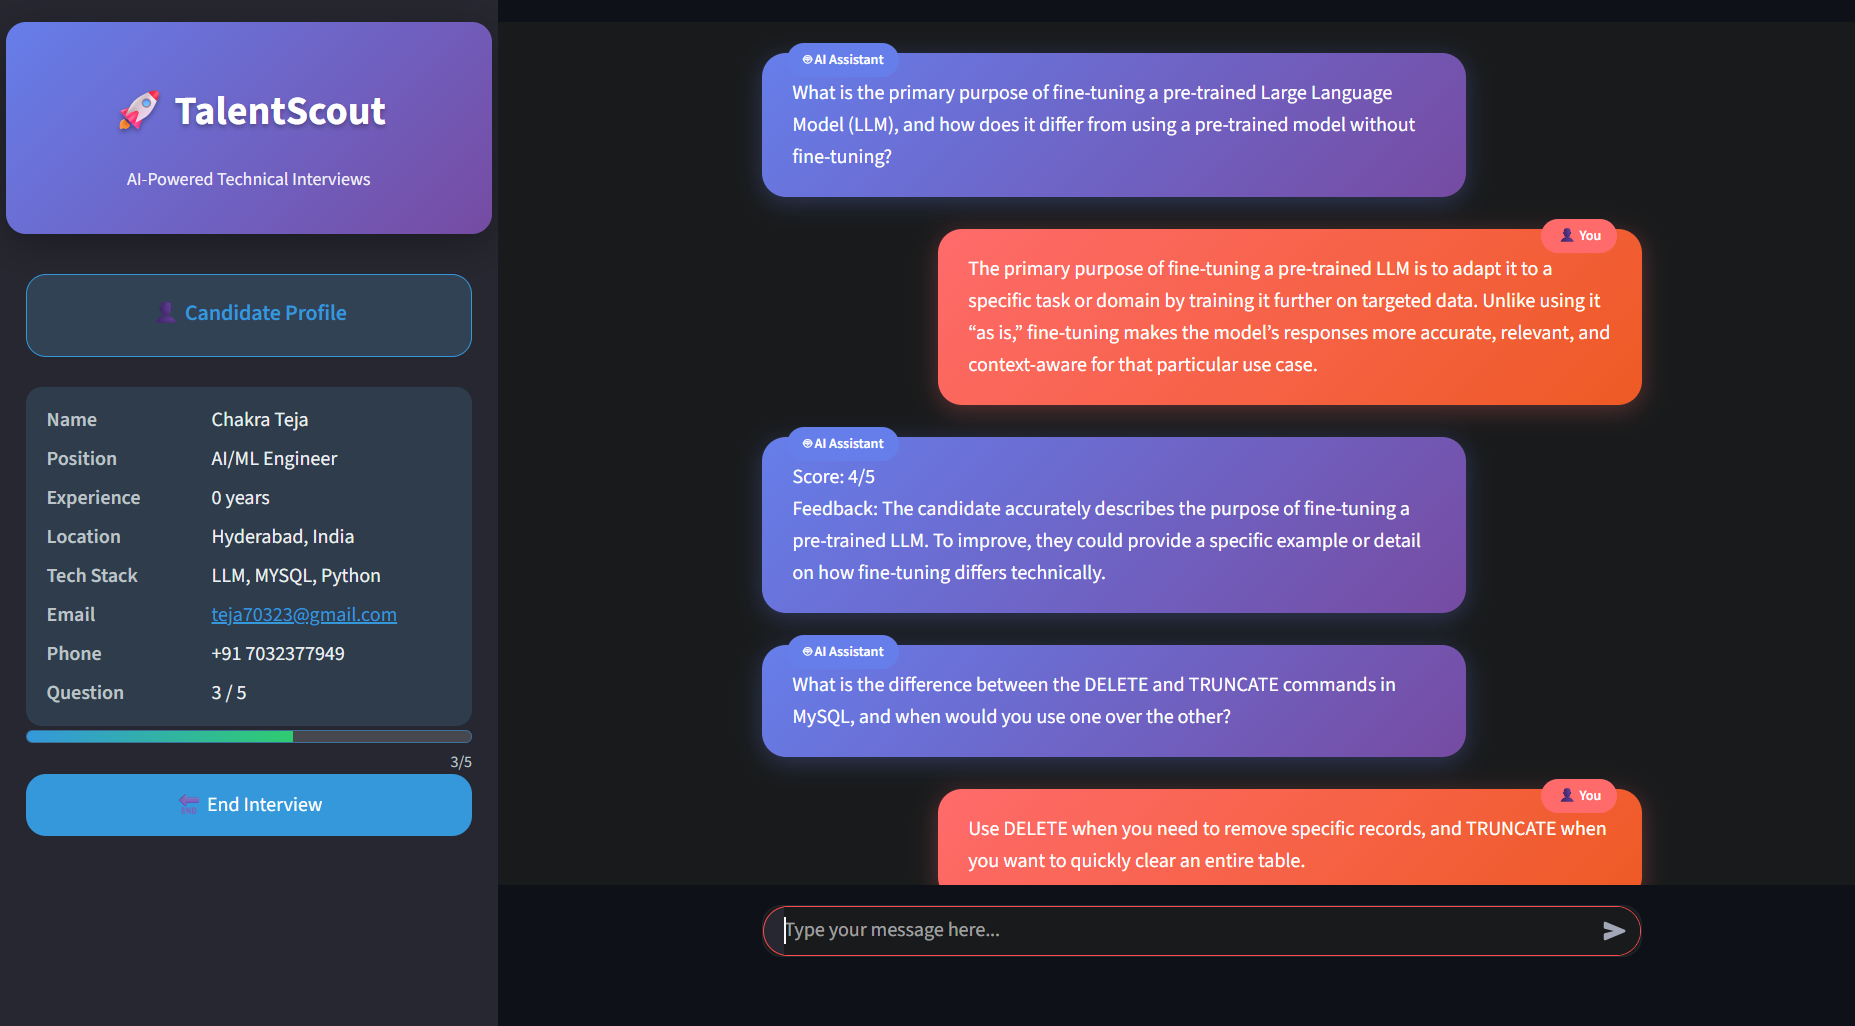
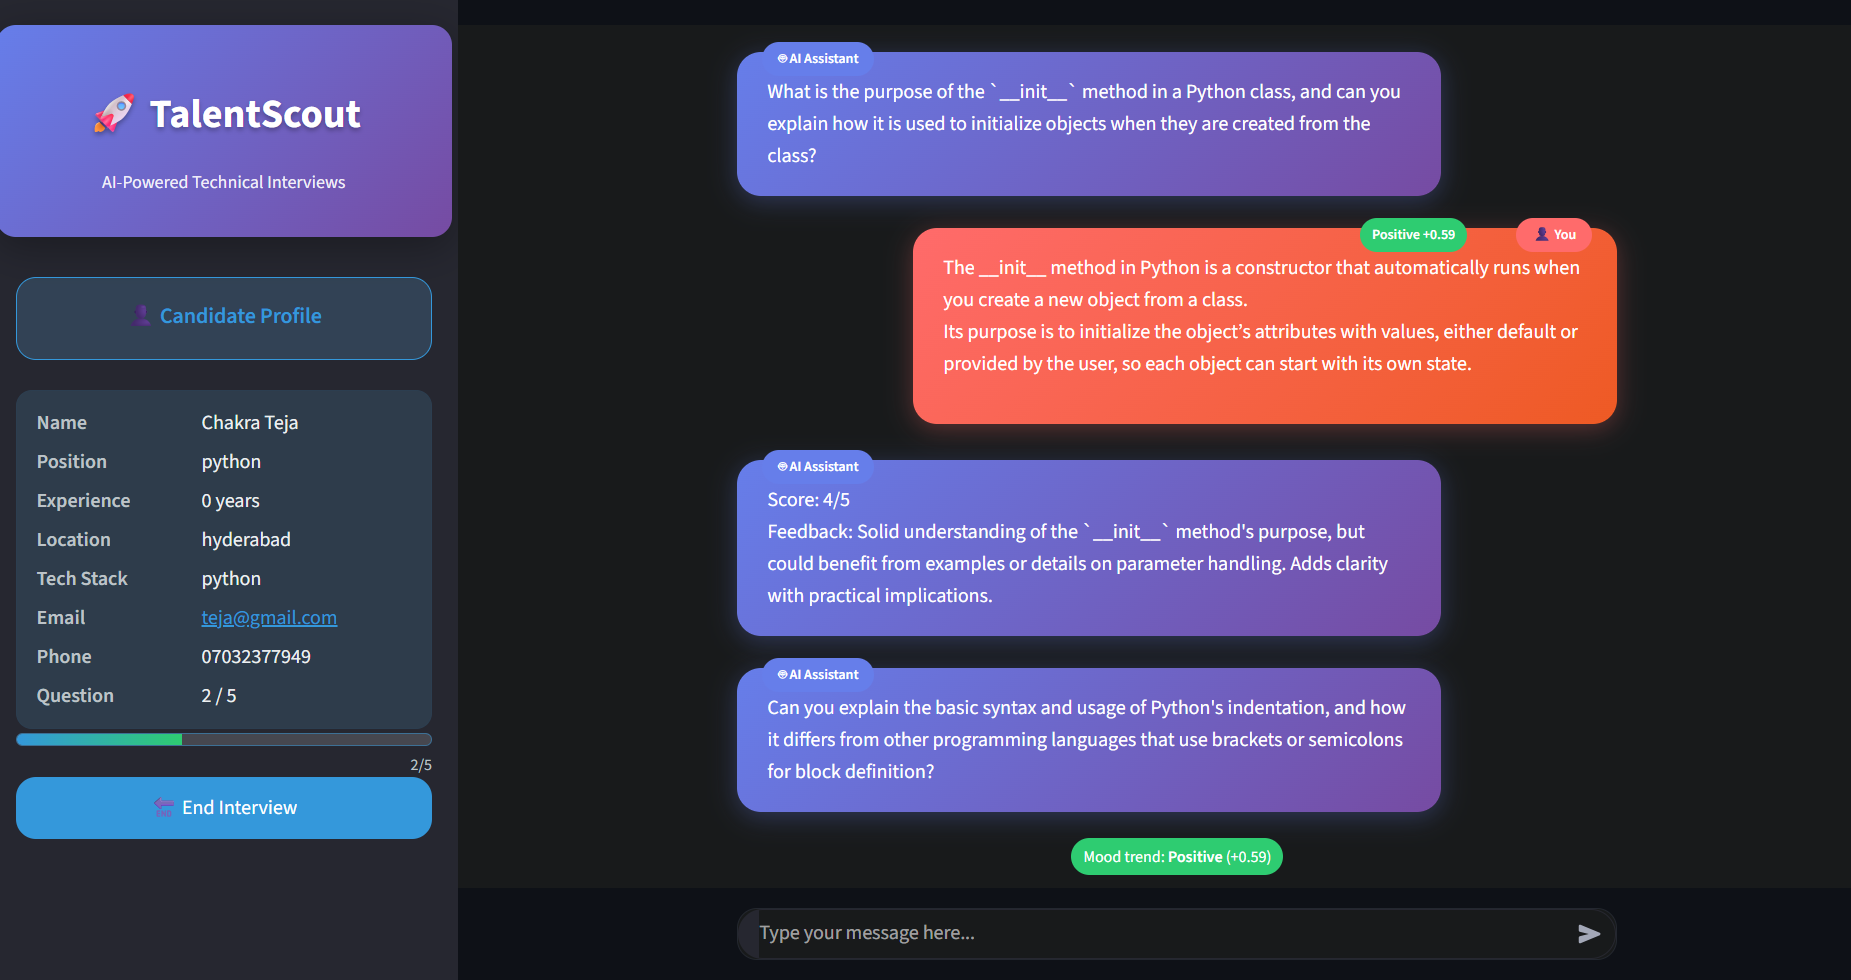
updated chatbot UI with sentiment analysis

diff --git a/app/utils/prompts.py b/app/utils/prompts.py
@@ -1,77 +1,174 @@
-# Prompt for generating multiple technical questions
 TECH_QUESTION_PROMPT = (
-    "You are an expert technical interviewer. Generate {num_questions} clear technical interview questions "
-    "based on the candidate's tech stack: {tech_stack} and {experience} years of experience.\n"
-    "Difficulty must strictly follow this mapping based on experience:\n"
-    "- 0 years → basic (fresher)\n"
-    "- 1-3 years → moderate (junior)\n"
-    "- 4-10 years → upper-moderate (experienced)\n"
-    "- 11+ years → hard (super experienced)\n\n"
-    "OUTPUT RULES (MANDATORY):\n"
-    "- Output ONLY the questions, each on its own line.\n"
-    "- Do NOT include any preface, labels, or explanations (no 'Question:', no summaries).\n"
-    "- Do NOT reference or relate to any previous question. Each question must be standalone.\n\n"
-    "Now generate {num_questions} {difficulty_label} questions for the given tech stack and experience.\n"
+    """You are an experienced technical interviewer conducting a real interview. Generate {num_questions} practical interview questions 
+    for a candidate with {experience} years of experience in: {tech_stack}.
+    
+    DIFFICULTY MAPPING (EXPERIENCE-BASED):
+    - 0-1 years → basic: "What is...", "Define...", "Name three..." (ONE concept per question, no compound questions)
+    - 2-3 years → moderate: "How would you handle...", "What's your approach to...", "Describe a scenario where..."
+    - 4-10 years → upper-moderate: "How would you design...", "What are the trade-offs of...", "How would you optimize..."
+    - 11+ years → hard: "How would you architect...", "What's your strategy for...", "How would you lead a team to..."
+    
+    QUESTION TYPES TO FOCUS ON:
+    - For 0-1 years: Single concept definitions (what is X?, define Y, name three types of Z)
+    - For 2+ years: Problem-solving approaches, experience-based scenarios, decision-making
+    - Best practices and troubleshooting (for experienced candidates only)
+    
+    OUTPUT RULES (MANDATORY):
+    - Each question on its own line
+    - No numbering, bullets, or prefixes
+    - Questions should feel like a real interviewer is asking
+    - Focus on verbal explanations, not coding
+    
+    Generate {num_questions} {difficulty_label} interview questions:
+    """
 )
 
-# Prompt for generating a single technical question
 TECH_QUESTION_SINGLE_PROMPT = (
-    "You are an expert technical interviewer. Generate EXACTLY ONE {difficulty_label} question "
-    "based on the candidate's tech stack: {tech_stack} and {experience} years of experience.\n"
-    "For this question, focus strictly on the skill: {focus_skill}. Do not mix multiple skills.\n"
-    "Difficulty mapping: 0 years → basic; 1-3 → moderate; 4-10 → upper-moderate; 11+ → hard.\n"
-    "Do not repeat any of these previously asked questions (if any):\n{avoid_questions}\n\n"
-    "OUTPUT RULES (MANDATORY):\n"
-    "- Output ONLY the question as a single line.\n"
-    "- Do NOT include any preface or labels (no 'Question:', no mentions of tech stack or experience).\n"
-    "- Do NOT reference or relate to any previous question.\n"
+    """You are conducting a technical interview. Ask EXACTLY ONE {difficulty_label} question 
+    for a candidate with {experience} years of experience in: {tech_stack}.
+    
+    FOCUS AREA: {focus_skill} (ask specifically about this technology/concept)
+    
+    QUESTION STYLES BY EXPERIENCE:
+    - basic (0-1 years): "What is...", "Define...", "Name..." (Single concept only, no compound questions)
+    - moderate: "How do you handle...", "Describe your approach to...", "What would you do if..."
+    - upper-moderate: "How would you design...", "What are the trade-offs...", "How do you optimize..."
+    - hard: "How would you architect...", "What's your strategy...", "How do you mentor others on..."
+    
+    AVOID THESE PREVIOUSLY ASKED QUESTIONS:
+    {avoid_questions}
+    
+    REQUIREMENTS:
+    - Ask like a real interviewer would
+    - For 0-1 years: ONE simple, direct question about ONE concept only
+    - For 2+ years: Focus on explanation/discussion, not coding
+    - Should take 30 seconds to 1 minute to answer for beginners, 1-2 minutes for experienced
+    - Must be specific to the focus skill mentioned
+    
+    OUTPUT: Just the interview question, no labels or formatting.
+    """
 )
 
-# Prompt for evaluating candidate's answer
 EVALUATE_ANSWER_PROMPT = (
-    "You are an expert technical interviewer. Evaluate the following candidate's answer:\n\n"
-    "Question: {question}\n"
-    "Answer: {answer}\n"
-    "Tech stack: {tech_stack} | Experience: {experience} years\n\n"
-    "Give a score (0-5) and brief constructive feedback.\n"
-    "OUTPUT FORMAT (MANDATORY):\n"
-    "Return exactly two fields in two lines only:\n"
-    "Score: <0-5>\n"
-    "Feedback: <1-3 short lines total, max ~200 characters; concise, actionable>\n\n"
-    "### Example:\n"
-    "Q: What is Python's GIL?\n"
-    "A: It allows multiple threads to run truly in parallel.\n"
-    "Evaluation →\n"
-    "Score: 2\n"
-    "Feedback: The candidate has a basic idea but is incorrect—Python's GIL actually prevents true multithreading. They should explain how it impacts concurrency.\n\n"
-    "### Now evaluate:\n"
+    """You are evaluating a candidate's interview response as a technical interviewer.
+    
+    INTERVIEW CONTEXT:
+    Question Asked: {question}
+    Candidate's Answer: {answer}
+    Tech Stack: {tech_stack} | Experience: {experience} years
+    
+    SCORING SCALE (0-5):
+    5 = Excellent: Comprehensive understanding, mentions best practices, real-world insights
+    4 = Good: Solid understanding, mostly accurate, good practical knowledge
+    3 = Average: Basic understanding, some gaps but shows general knowledge
+    2 = Below Average: Limited understanding, several inaccuracies or missing key points
+    1 = Poor: Significant gaps, major misunderstandings
+    0 = No answer or completely wrong
+    
+    EVALUATION FOCUS:
+    - Accuracy of technical knowledge
+    - Depth of understanding for their experience level
+    - Practical application awareness
+    - Communication clarity
+    
+    OUTPUT FORMAT (EXACT):
+    Score: <0-5>
+    Feedback: <Brief, constructive feedback in 1-2 sentences, max 150 characters>
+    
+    EXAMPLE:
+    Score: 3
+    Feedback: Good basic understanding but missed key performance considerations. Explain caching strategies next time.
+    
+    Evaluate this interview response:
+    """
 )
 
-# Prompt for politely handling no answer
 POLITE_NEXT_QUESTION_PROMPT = (
-    "The candidate did not answer. Generate EXACTLY ONE {difficulty_label} question that is independent and unrelated to any prior question, "
-    "based on the tech stack {tech_stack} and {experience} years of experience.\n"
-    "For this question, focus strictly on the skill: {focus_skill}. Do not mix multiple skills.\n"
-    "Do not repeat any of these previously asked questions (if any):\n{avoid_questions}\n\n"
-    "OUTPUT RULES (MANDATORY):\n"
-    "- Output ONLY the question as a single line.\n"
-    "- Do NOT include any preface, apologies, or labels (no 'Question:').\n"
-    "- Do NOT mention the previous question at all.\n"
+    """Continue the technical interview. Ask EXACTLY ONE {difficulty_label} question 
+    for a candidate with {experience} years of experience in: {tech_stack}.
+    
+    FOCUS ON: {focus_skill}
+    
+    PREVIOUSLY COVERED (don't repeat):
+    {avoid_questions}
+    
+    INTERVIEW STYLE:
+    - Ask naturally like an interviewer would
+    - Focus on discussion/explanation questions
+    - Appropriate difficulty for {experience} years experience
+    - Should be answerable in 1-2 minutes verbally
+    
+    OUTPUT: Just ask the next interview question directly.
+    """
 )
 
-# Prompt for generating final report and closing
+# FINAL_REPORT_PROMPT = (
+#     """Provide a final technical interview assessment for this candidate.
+    
+#     INTERVIEW PERFORMANCE:
+#     Candidate Answers: {answers}
+#     Question Scores: {scores}
+#     Tech Stack: {tech_stack} | Experience: {experience} years
+    
+#     ASSESSMENT AREAS:
+#     1. Technical Knowledge Strength
+#     2. Areas Needing Improvement  
+#     3. Communication Skills
+#     4. Experience Level Appropriateness
+#     5. Hiring Recommendation
+    
+#     TONE: Professional interviewer providing constructive feedback
+    
+#     FORMAT: 4-5 sentences covering:
+#     - What they did well technically
+#     - Key areas to improve
+#     - Overall communication/interview performance
+#     - Recommendation (hire/not hire/needs development)
+#     - Encouraging closing
+    
+#     EXAMPLE:
+#     The candidate demonstrated solid foundational knowledge in React and JavaScript fundamentals. 
+#     However, they need to strengthen their understanding of state management and component lifecycle concepts. 
+#     Communication was clear and they showed good problem-solving thinking during responses. 
+#     Recommend for junior developer role with mentorship on advanced React patterns. 
+#     Thank you for your time today, and best of luck with your continued learning!
+    
+#     Generate interview assessment:
+#     """
+# )
+
 FINAL_REPORT_PROMPT = (
-    "You are an expert interviewer. Summarize the candidate's performance based on:\n"
-    "Answers: {answers}\n"
-    "Scores: {scores}\n"
-    "Tech stack: {tech_stack} | Experience: {experience} years\n\n"
-    "Write a concise 3-5 line report highlighting strengths, weaknesses, and overall impression.\n"
-    "Do NOT include any overall score line; that will be added by the system.\n\n"
-    "### Example:\n"
-    "Candidate showed strong understanding of Python fundamentals and Django concepts. "
-    "Problem-solving skills were good but explanations lacked depth in some areas. "
-    "They demonstrated decent API knowledge but struggled with concurrency. "
-    "Overall, suitable for entry-level roles with growth potential.\n"
-    "Thank you for attending interview, Happy Learning.\n\n"
-    "### Now generate report:\n"
+    """Generate a comprehensive technical interview assessment based on the candidate's performance.
+    
+    PERFORMANCE DATA:
+    Candidate Responses: {answers}
+    Question Scores: {scores}
+    Tech Stack: {tech_stack} | Experience Level: {experience} years
+    
+    REPORT STRUCTURE REQUIREMENTS:
+    1. Technical Strengths (specific skills demonstrated)
+    2. Areas for Improvement (specific gaps identified)
+    3. Communication and Problem-Solving Assessment
+    4. Recommendation for role suitability
+    5. Growth potential and next steps
+    
+    WRITING GUIDELINES:
+    - Be specific and evidence-based
+    - Reference actual performance on questions
+    - Consider experience level expectations
+    - Provide constructive, actionable feedback
+    - Maintain professional, encouraging tone
+    
+    LENGTH: 4-6 concise sentences covering all key aspects
+    
+    EXAMPLE FORMAT:
+    Candidate demonstrated solid foundational knowledge in Python with particularly strong understanding of data structures and OOP concepts. 
+    Areas for improvement include async programming patterns and performance optimization techniques. 
+    Communication was clear with good problem-solving approach, though explanations could be more detailed. 
+    Suitable for mid-level developer role with mentorship in advanced topics. 
+    Recommend focusing on practical projects involving concurrency and system design.
+    Thank you for your time. Best of luck with your continued learning journey.
+    
+    Generate assessment report:
+    """
 )

diff --git a/app/ui/chatbot_ui.py b/app/ui/chatbot_ui.py
@@ -2,6 +2,7 @@ import streamlit as st
 from textwrap import dedent
 from app.ui.styles import REG_CSS
 from app.services.llm_service import LLMService
+from vaderSentiment.vaderSentiment import SentimentIntensityAnalyzer
 
 def chatbot_ui():
     st.markdown(REG_CSS, unsafe_allow_html=True)
@@ -19,6 +20,10 @@ def chatbot_ui():
         st.session_state.final_report = ""
     if "asked_questions_global" not in st.session_state:
         st.session_state.asked_questions_global = []
+    if "sentiment_analyzer" not in st.session_state:
+        st.session_state.sentiment_analyzer = SentimentIntensityAnalyzer()
+    if "sentiment_history" not in st.session_state:
+        st.session_state.sentiment_history = []
 
     # Sidebar
     with st.sidebar:
@@ -136,6 +141,7 @@ def chatbot_ui():
                 st.session_state.question_count = 0
                 st.session_state.awaiting_answer = False
                 st.session_state.is_generating_question = False
+                st.session_state.sentiment_history = []
                 st.rerun()
 
     # Greeting + Instructions
@@ -412,6 +418,7 @@ def chatbot_ui():
                 st.session_state.question_count = 0
                 st.session_state.awaiting_answer = False
                 st.session_state.is_generating_question = True
+                st.session_state.sentiment_history = []
                 st.rerun()
         # Show final report below Start Interview if available
         if st.session_state.get("interview_completed") and st.session_state.get("final_report"):
@@ -478,6 +485,16 @@ def chatbot_ui():
                 unsafe_allow_html=True,
             )
         else:
+            sentiment_html = ""
+            try:
+                s = message.get("sentiment") if isinstance(message, dict) else None
+                if s is not None:
+                    label = s.get("label", "neutral")
+                    compound = float(s.get("compound", 0.0))
+                    color = "#2ecc71" if label == "positive" else ("#e74c3c" if label == "negative" else "#95a5a6")
+                    sentiment_html = f"<div style=\"position: absolute; top: -8px; right: 120px; background: {color}; padding: 0.3rem 0.6rem; border-radius: 1rem; font-size: 0.7rem; color: white; font-weight: 600;\">{label.title()} {compound:+.2f}</div>"
+            except Exception:
+                sentiment_html = ""
             st.markdown(
                 f"""
                 <div style="display: flex; justify-content: flex-end; margin: 0.8rem 0;">
@@ -502,12 +519,29 @@ def chatbot_ui():
                             color: white;
                             font-weight: 600;
                         ">👤 You</div>
+                        {sentiment_html}
                         {message["content"]}
                     </div>
                 </div>
                 """,
                 unsafe_allow_html=True,
             )
+
+    # Mood trend summary
+    if st.session_state.get("sentiment_history"):
+        avg_compound = sum(st.session_state.sentiment_history) / max(1, len(st.session_state.sentiment_history))
+        avg_label = "positive" if avg_compound >= 0.05 else ("negative" if avg_compound <= -0.05 else "neutral")
+        avg_color = "#2ecc71" if avg_label == "positive" else ("#e74c3c" if avg_label == "negative" else "#95a5a6")
+        st.markdown(
+            f"""
+            <div style=\"display:flex; justify-content:center; margin-top:0.5rem;\">
+                <div style=\"background:{avg_color}; color:white; padding:0.3rem 0.6rem; border-radius:999px; font-size:0.8rem;\">
+                    Mood trend: <strong>{avg_label.title()}</strong> ({avg_compound:+.2f})
+                </div>
+            </div>
+            """,
+            unsafe_allow_html=True,
+        )
 
     # Chat input (disabled when interview is completed)
     if not st.session_state.get("interview_completed"):
@@ -527,10 +561,19 @@ def chatbot_ui():
             st.session_state.question_count = 0
             st.session_state.awaiting_answer = False
             st.session_state.is_generating_question = False
+            st.session_state.sentiment_history = []
             st.rerun()
             return
 
-        st.session_state.messages.append({"role": "user", "content": prompt})
+        # Sentiment analysis for user's message
+        try:
+            scores = st.session_state.sentiment_analyzer.polarity_scores(prompt)
+            compound = float(scores.get("compound", 0.0))
+        except Exception:
+            compound = 0.0
+        label = "positive" if compound >= 0.05 else ("negative" if compound <= -0.05 else "neutral")
+        st.session_state.messages.append({"role": "user", "content": prompt, "sentiment": {"compound": compound, "label": label}})
+        st.session_state.sentiment_history.append(compound)
         # If we are awaiting an answer within the interview loop, evaluate and move forward
         if st.session_state.awaiting_answer and st.session_state.question_count <= 5:
             if prompt.strip():
@@ -594,7 +637,14 @@ def chatbot_ui():
                     report_body = f"Error generating report: {str(e)}"
                 scores = st.session_state.interview_scores
                 overall = round(sum(scores) / len(scores), 2) if scores else 0.0
-                st.session_state.final_report = f"{report_body}\n\nOverall Score: {overall}/5"
+                # Append sentiment summary to final report
+                if st.session_state.get("sentiment_history"):
+                    avg_compound = sum(st.session_state.sentiment_history) / max(1, len(st.session_state.sentiment_history))
+                    avg_label = "positive" if avg_compound >= 0.05 else ("negative" if avg_compound <= -0.05 else "neutral")
+                    sent_summary = f"\nEmotion Trend: {avg_label.title()} ({avg_compound:+.2f} avg compound)"
+                else:
+                    sent_summary = ""
+                st.session_state.final_report = f"{report_body}\n\nOverall Score: {overall}/5{sent_summary}"
                 # Inform completion and thanks in chat
                 completion_msg = "All questions have been shown.\nThank you for attending interview Happy Learning."
                 st.session_state.messages.append({"role": "assistant", "content": completion_msg.replace('\n', '<br/>')})
